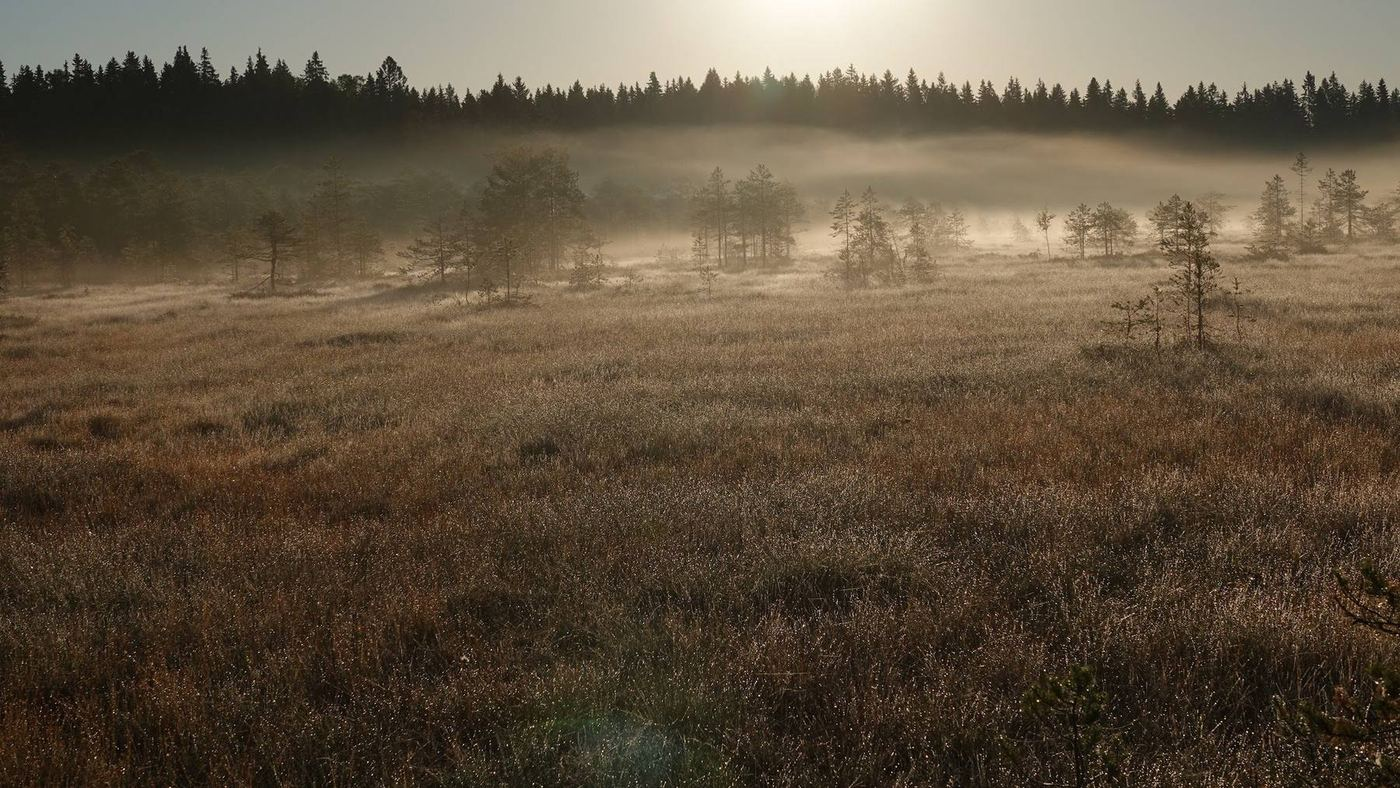
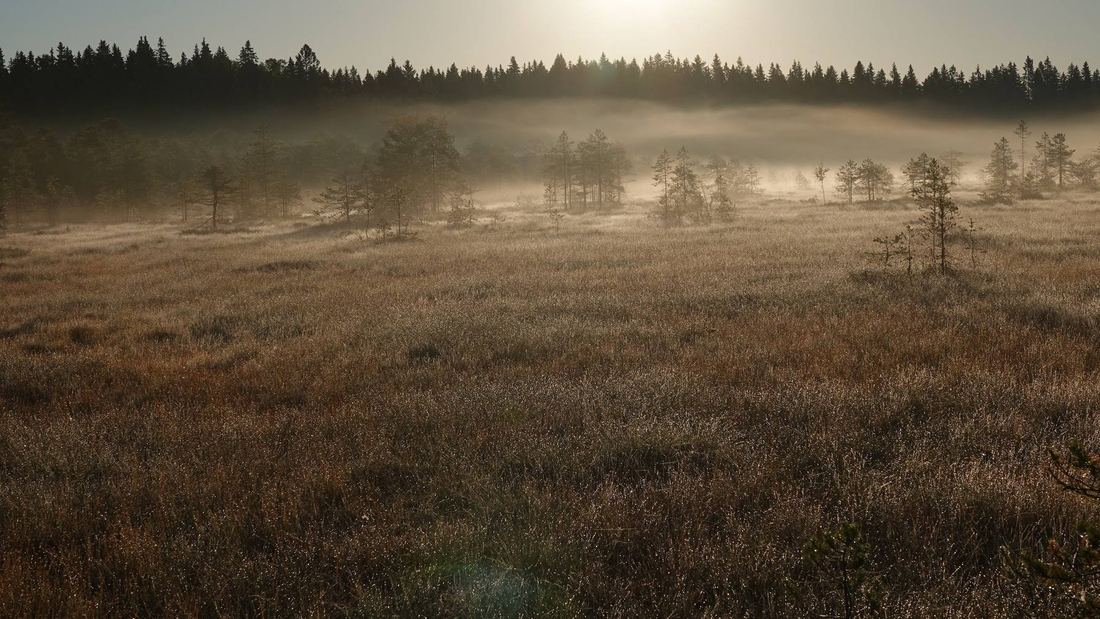
Kevennetään hero-suo-aamu ja ref-sarakasvi mitattuun tarpeeseen
Nämä kaksi jäivät edellisestä kevennyksestä raskaimmiksi. Molemmat vaativat
eri ratkaisun, joten tyokalut/optimoi-taustakuvat.py on nimetty
optimoi-kuvat.py:ksi ja jaettu kahteen osaan.

hero-suo-aamu 165 -> 88 kt. Herolaatikko on työpöydällä vain ~310 px korkea,
joten 1920 px ikkunassa kuvasta näkyy 29 % pikseleistä ja se venytetään jo nyt
1,37-kertaiseksi. Ensin kokeiltiin rajaamista näkyvään kaistaan, mutta se
muuttaa sommittelua puhelimessa: cover näyttää kapeassa ruudussa kuvan koko
korkeuden. PIENENTÄMINEN säilyttää kuvasuhteen, joten rajaus pysyy samana
kaikilla leveyksillä eikä background-positionia tarvitse laskea uudelleen.
1100 px q58 riitti. Varmistettu selaimesta edellistä committia vasten: ero
työpöydällä ka 1,07 / 255, puhelimessa 1,22, ja yli 12:n eroja on 0,1 %
pikseleistä. Herolaatikon koko ei muuttunut, eli rajaus säilyi.

ref-sarakasvi 79 -> 62 kt. Tässä leveys EI ollut liian suuri: 900 px
taitekohdassa kortti on yksipalstainen ja kuva 826 px leveä, joten 800 px on
oikea. Sisältö on vain kalleinta mahdollista pakattavaa, tuhansia ohuita korsia
kirjavaa heijastusta vasten. Ilmainen voitto löytyi kuvasuhteesta: CSS antaa
kuvapinnalle aspect-ratio: 16/10 ja object-fit: cover rajaa tiedoston 16:9
suhteesta 78 px leveyttä pois, eli 9,8 % pikseleistä ei näkynyt koskaan.
Tiedosto rajattu siihen suhteeseen jossa se näytetään ja laatu q58.
width/height-attribuutit päivitetty vastaavasti.

Mittaus ref-kortista näytti ensin suuren eron (ka 8,3 / 255), mutta
[…]

diff --git a/referenssit.html b/referenssit.html
@@ -88,7 +88,7 @@
             <figure class="card-media">
               <picture>
                 <source srcset="ref-sarakasvi.webp" type="image/webp">
-                <img src="ref-sarakasvi.jpg" alt="Sarakasvillisuutta lammen rannalla" loading="lazy" width="800" height="451">
+                <img src="ref-sarakasvi.jpg" alt="Sarakasvillisuutta lammen rannalla" loading="lazy" width="722" height="451">
               </picture>
             </figure>
             <div class="card-body">

diff --git a/tyokalut/optimoi-kuvat.py b/tyokalut/optimoi-kuvat.py
@@ -1,0 +1,150 @@
+#!/usr/bin/env python3
+"""Pienentää sivuston kuvat mittaamalla todettuihin mittoihin.
+
+Kaksi eri tapausta, jotka vaativat eri logiikan:
+
+TAUSTAKUVAT (CSS:n background-image gradientin alla)
+  Kaikki olivat alun perin 1800 px leveitä. Pelkkä uudelleenpakkaus KASVATTAA
+  tiedostoja (footer-suo 182 -> 220 kt q75:llä) -- hukka on pikselimäärässä.
+  Laatu seuraa gradientin peittävyyttä: mitä tummemman peiton alla kuva on,
+  sitä vähemmän artefaktit näkyvät. Jos gradienttia vaalennetaan, nosta laatua.
+
+  Leveys on kuvakohtainen, koska tarve on mitattu selaimesta. Kuva PIENENNETÄÄN,
+  ei rajata: rajaaminen muuttaisi sommittelua puhelimessa, koska cover näyttää
+  kapeassa ruudussa kuvan koko korkeuden. Pienentäminen säilyttää kuvasuhteen,
+  joten background-position pysyy samana eikä CSS:ää tarvitse koskea.
+
+KORTTIKUVAT (<img> kortin kuvapinnassa, ei gradienttia)
+  Näissä ei ole peittoa, joten laatua ei voi laskea yhtä paljon. Sen sijaan
+  tiedosto rajataan siihen kuvasuhteeseen jossa se NÄYTETÄÄN: CSS antaa
+  kuvapinnalle aspect-ratio-arvon ja object-fit: cover rajaa lopun pois, joten
+  ylimääräiset reunapikselit eivät näy koskaan. Rajaus on ilmainen voitto.
+
+Lähteenä on .jpg, koska se on repon tarkin versio. Tiedostoa ei korvata jos
+tulos kasvaisi, joten skriptin voi ajaa uudelleen turvallisesti -- esimerkiksi
+hero-heinavesi.webp on jo tiukemmin pakattu kuin tämä saa siitä.
+
+Ajetaan repon juuresta: python3 tyokalut/optimoi-kuvat.py
+"""
+
+from pathlib import Path
+
+from PIL import Image
+
+JPG_LAATU = 78  # vain vanhojen selainten varafallback, ei kriittinen
+
+# nimi -> (maksimileveys, webp-laatu)
+# Leveydet on mitattu selaimesta: hero-laatikko on työpöydällä vain ~310 px
+# korkea, joten 1920 px ikkunassa kuvasta näkyy 29 % pikseleistä ja se
+# venytetään joka tapauksessa. Laatu perustuu gradientin peittoon style.css:ssä.
+TAUSTAKUVAT = {
+    # .site-footer: 0,68-0,80 tumma peitto -> artefaktit eivät näy
+    "footer-suo": (1400, 60),
+    # .page-hero: var(--hero-tint) 0,60-0,70.
+    # hero-suo-aamu oli sivuston raskain tiedosto (165 kt 1400 px:ssä): usva ja
+    # heinikko ovat kalliita pakata. 1100 px venyttää 1440 px ikkunassa 1,31x,
+    # mutta mitattu ero renderöinnin JÄLKEEN on 1,8 / 255 eli näkymätön.
+    "hero-suo-aamu": (1100, 58),
+    "hero-syysranta": (1400, 64),
+    "hero-kalliosaari": (1400, 66),
+    "hero-suokasvit": (1400, 66),
+    "hero-usvaranta": (1400, 66),
+    "hero-usva-jarvi": (1400, 66),
+    "hero-kuusikko": (1400, 66),
+    "hero-kaislikko": (1400, 66),
+    "hero-heinavesi": (1400, 66),
+    # .image-band: vain 0,45-0,60 -> kuva näkyy selvemmin
+    "band-soutaja": (1400, 72),
+    # .hero: gradientti haipuu 0,72 -> 0,14, eli alaosa on lähes paljas.
+    # Sama tiedosto on myös .site-header.scrolled -taustana joka sivulla.
+    "hero-jarvi": (1400, 74),
+}
+
+# nimi -> (kuvapinnan kuvasuhde CSS:ssä, webp-laatu)
+# HUOM: jos style.css:n aspect-ratio muuttuu, muuta sama arvo tästä -- muuten
+# rajaus leikkaa pois jotain mikä pitäisi näkyä.
+KORTTIKUVAT = {
+    # .ref-category.card--media .card-media img { aspect-ratio: 16 / 10 }
+    # ref-sarakasvi on korttikuvista kallein (79 kt kun sisarkuvat ovat 20-26
+    # kt): tuhansia ohuita korsia kirjavaa heijastusta vasten on pakkaukselle
+    # pahin mahdollinen sisältö. Leveys 800 px on mitattu oikeaksi -- 900 px
+    # taitekohdassa kortti on yksipalstainen ja kuva 826 px leveä.
+    "ref-sarakasvi": (16 / 10, 58),
+}
+
+juuri = Path(__file__).resolve().parent.parent
+
+
+def kt(polku: Path) -> int:
+    return polku.stat().st_size // 1024
+
+
+def kirjoita(kuva: Image.Image, kohde: Path, **asetukset) -> str:
+    """Kirjoittaa vain jos tulos pienenee. Palauttaa selosteen."""
+    vanha = kt(kohde) if kohde.exists() else None
+    tmp = kohde.with_suffix(kohde.suffix + ".uusi")
+    muoto = "JPEG" if kohde.suffix == ".jpg" else "WEBP"
+    kuva.save(tmp, format=muoto, **asetukset)
+
+    if vanha is not None and kt(tmp) >= vanha:
+        tmp.unlink()
+        return f"{vanha} kt (ei pienene, ennallaan)"
+    tmp.replace(kohde)
+    return f"{kt(kohde)} kt" + (f" (oli {vanha})" if vanha else "")
+
+
+def aja(nimi: str, muokkaa, laatu: int) -> tuple[int, int]:
+    jpg = juuri / f"{nimi}.jpg"
+    webp = juuri / f"{nimi}.webp"
+    if not jpg.exists():
+        print(f"  OHITETAAN {nimi}: {jpg.name} puuttuu")
+        return 0, 0
+
+    ennen = kt(jpg) + (kt(webp) if webp.exists() else 0)
+    with Image.open(jpg) as src:
+        kuva = muokkaa(src.convert("RGB"))
+        # method=6 on hitain ja tiukin WebP-haku; kuvat ajetaan harvoin.
+        w = kirjoita(kuva, webp, quality=laatu, method=6)
+        j = kirjoita(kuva, jpg, quality=JPG_LAATU, progressive=True, optimize=True)
+    print(f"  {nimi:<18} {kuva.width}x{kuva.height} q{laatu}   webp {w:<26} jpg {j}")
+    return ennen, kt(jpg) + kt(webp)
+
+
+def main() -> None:
+    ennen = jalkeen = 0
+
+    print("Taustakuvat (pienennys, laatu gradientin mukaan):")
+    for nimi, (maks_leveys, laatu) in TAUSTAKUVAT.items():
+        def pienenna(kuva, maks_leveys=maks_leveys):
+            if kuva.width <= maks_leveys:
+                return kuva
+            korkeus = round(kuva.height * maks_leveys / kuva.width)
+            return kuva.resize((maks_leveys, korkeus), Image.LANCZOS)
+
+        a, b = aja(nimi, pienenna, laatu)
+        ennen += a
+        jalkeen += b
+
+    print("\nKorttikuvat (rajaus näytettyyn kuvasuhteeseen):")
+    for nimi, (suhde, laatu) in KORTTIKUVAT.items():
+        def rajaa(kuva, suhde=suhde):
+            if abs(kuva.width / kuva.height - suhde) < 0.01:
+                return kuva          # jo oikeassa suhteessa, ei rajata uudelleen
+            if kuva.width / kuva.height > suhde:
+                # liian leveä -> cover rajaa leveyttä, keskitettynä
+                uusi = round(kuva.height * suhde)
+                reuna = (kuva.width - uusi) // 2
+                return kuva.crop((reuna, 0, reuna + uusi, kuva.height))
+            uusi = round(kuva.width / suhde)
+            reuna = (kuva.height - uusi) // 2
+            return kuva.crop((0, reuna, kuva.width, reuna + uusi))
+
+        a, b = aja(nimi, rajaa, laatu)
+        ennen += a
+        jalkeen += b
+
+    print(f"\nYhteensä (webp+jpg) {ennen} kt -> {jalkeen} kt  (-{ennen - jalkeen} kt)")
+
+
+if __name__ == "__main__":
+    main()
